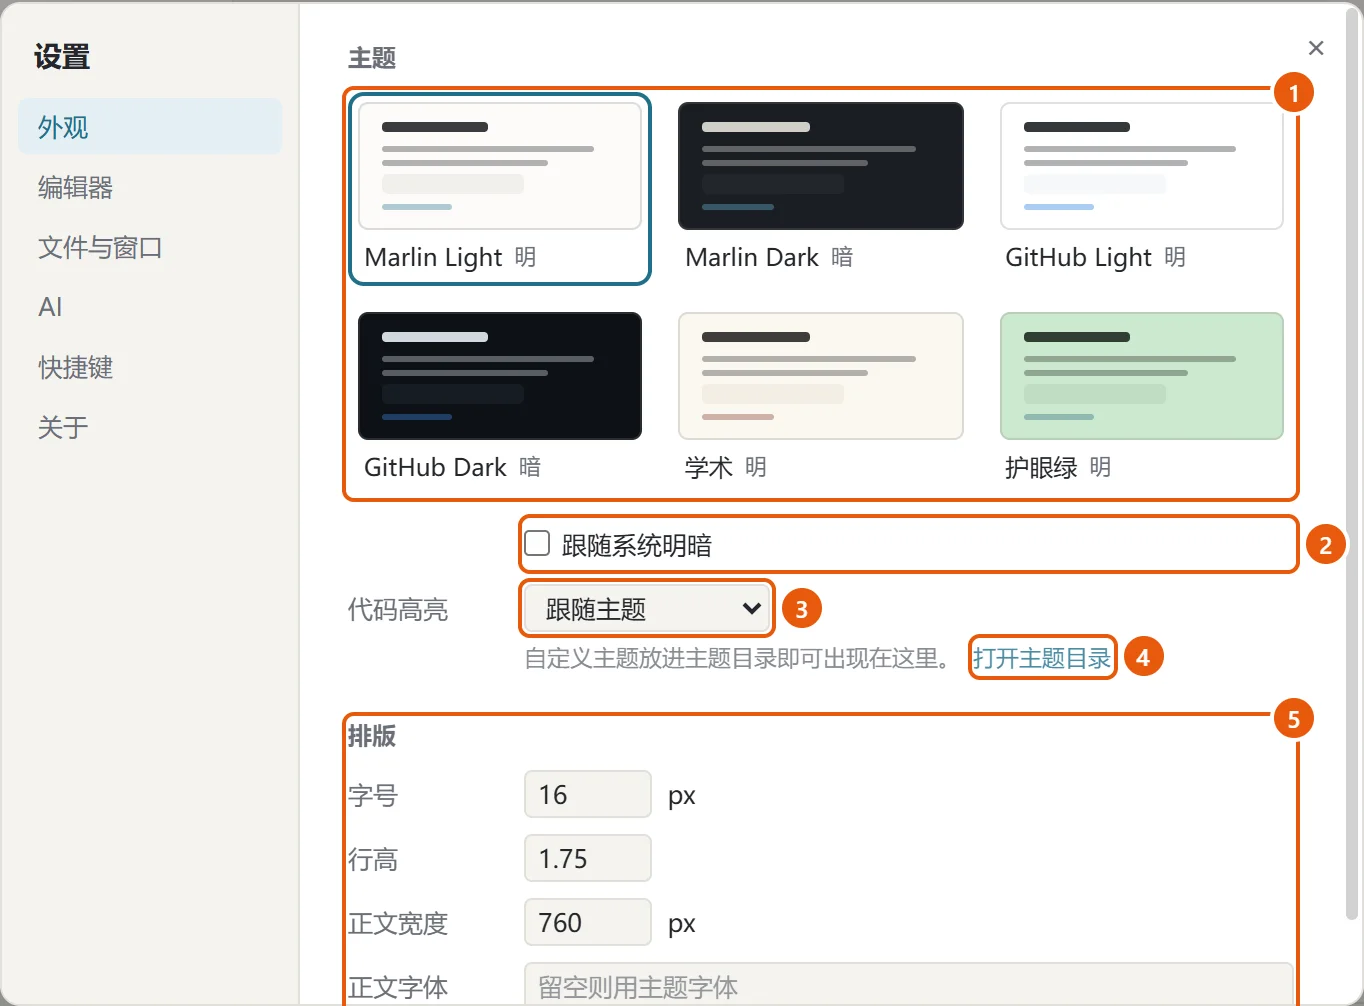
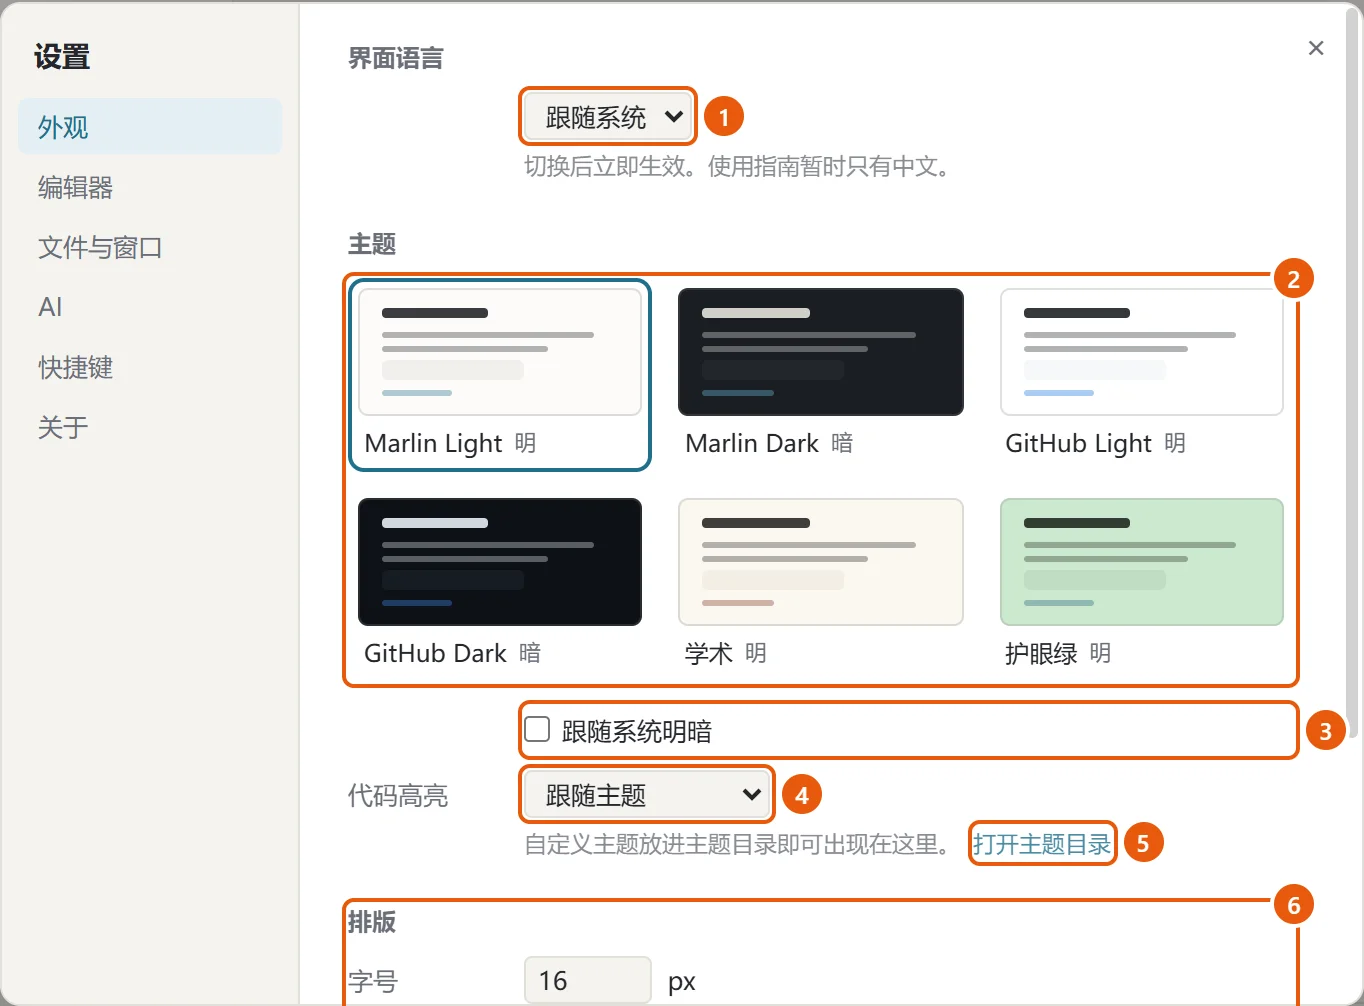
2.5.0：同步更新日志与使用指南（界面语言）；常见问题加「有英文界面吗」；安装包 7.1 MB

Changed region(s): [[0.2463, 0.0308, 1.0, 1.0], [0.2463, 0.9553, 0.3387, 1.0]]

diff --git a/src/lib/faq.ts b/src/lib/faq.ts
@@ -66,6 +66,10 @@ export const faqs: Faq[] = [
     a: '这是 Windows SmartScreen 对未签名新程序的提示。点「更多信息」，再点「仍要运行」即可。'
   },
   {
+    q: '有英文界面吗？',
+    a: '有。设置 → 外观 →「界面语言」选 English，马上换成英文，不用重启；默认跟随 Windows 的显示语言。英文界面里 AI 内置命令也用英文，润色、续写仍按原文的语言回答。使用指南暂时只有中文。'
+  },
+  {
     q: '支持哪些系统？',
     a: '支持 Windows 10 1809 及以上和 Windows 11（x64）。'
   },

diff --git a/src/content/changelog.md b/src/content/changelog.md
@@ -1,5 +1,32 @@
 <!-- 由 scripts/sync.mjs 从主仓库 docs/CHANGELOG.md 生成，不要手改 -->
 
+## 2.5.0 — 2026-11-07
+
+界面有了英文版：设置 → 外观 →「界面语言」选 English，马上换过来，打开的文档和没保存的修改都不受影响。
+
+### 界面语言
+
+- 设置 → 外观最上面多了「界面语言」：简体中文、English、跟随系统（Windows 的显示语言是中文就用中文，否则用英文）。默认跟随系统：Windows 是英文的电脑升级后会变成英文界面，想要中文在这里选「简体中文」
+- 切换马上生效，所有打开的窗口一起换；正在编辑的文档、撤销记录、光标、查找框都还在
+- 英文界面覆盖标题栏、菜单、侧栏、设置、编辑器里的卡片和工具条、`/` 菜单、表格、三种画板、Mermaid 的补全和报错说明、放映、AI 的各个面板，以及保存、Git、导出这些操作的提示
+- 英文界面下，`/` 菜单和 AI 命令仍能用中文名、拼音找到（比如输入「代码」找到 Code block）
+- 插入的模板（表格、流程图、时序图、思维导图的示例文字）、新建文件的名字、默认的提交说明跟着界面语言
+- 提示框（`> [!NOTE]`）没写标题时，英文界面在预览和导出里显示 Note、Tip、Warning
+- 使用指南暂时只有中文；英文界面里「使用指南」照样打开中文版
+
+### AI
+
+- 英文界面里，内置命令显示英文名（Polish、Translate…），发给模型的是英文提示词；润色、续写这类命令仍按原文的语言回答，润色中文段落得到的还是中文
+- 翻译不填目标语言时，译成英文；原文已经是英文就译成中文
+- 「复制来改」按显示的名字存命令文件；和内置命令同名（中文名或英文名）的自己的命令会替换掉内置的
+- 外部 AI 助手（MCP）读到的工具说明和返回结果统一改为英文，对各家模型更稳；问你的确认框（打开文件夹、另存）跟着界面语言
+
+### 其他
+
+- 安装程序选英文时，文件夹右键菜单是「Open with Marlin」，`.md` 的文件类型名是「Markdown document」
+- 导出的 HTML 按文档内容标注语言（中文为主标为中文，否则英文），读屏软件和浏览器的翻译更准
+- 起始页的搜索框加宽了一点
+
 ## 2.4.1 — 2026-11-04
 
 修正几处和窗口、标签有关的问题：打开文档时反复出现「document N is not pending」、一次打开几个文件时卡住。

diff --git a/src/content/guide/23-themes.md b/src/content/guide/23-themes.md
@@ -34,11 +34,12 @@ Marlin 带了 6 套主题：
 
 <a class="shot" href="../images/settings-appearance.webp" target="_blank"><img src="../images/settings-appearance.webp" alt="设置 → 外观" loading="lazy" decoding="async"></a>
 
-1. 主题：点一下就换，带框的是现在用的
-2. 跟随系统明暗：Windows 切换浅色 / 深色模式时，Marlin 跟着换。打开后可以分别选「明亮时」「暗色时」用哪套主题
-3. 代码高亮：代码块的配色，默认跟随主题；也可以单独选 GitHub、One Dark、Solarized Light
-4. 打开主题目录：自己写的主题放这里，见下文
-5. 排版：在主题的基础上调整
+1. 界面语言：简体中文或 English；「跟随系统」时 Windows 的显示语言是中文就用中文，否则用英文。改了马上生效，打开的文档、没保存的修改和撤销记录都不受影响
+2. 主题：点一下就换，带框的是现在用的
+3. 跟随系统明暗：Windows 切换浅色 / 深色模式时，Marlin 跟着换。打开后可以分别选「明亮时」「暗色时」用哪套主题
+4. 代码高亮：代码块的配色，默认跟随主题；也可以单独选 GitHub、One Dark、Solarized Light
+5. 打开主题目录：自己写的主题放这里，见下文
+6. 排版：在主题的基础上调整
 
 | 排版 | 范围 | 说明 |
 |---|---|---|
@@ -48,6 +49,9 @@ Marlin 带了 6 套主题：
 | 正文字体 | 字体名 | 比如 `Noto Serif SC, serif`；留空用主题的字体。字体要先装在电脑上 |
 
 临时放大缩小用 <kbd>Ctrl +</kbd> / <kbd>Ctrl -</kbd>，见 [阅读](../04-reading/#放大缩小)。
+
+> <strong class="alert-title" data-kind="note">注意</strong>
+> 界面换成英文时，提示框的默认标题（「注意」「提示」）在预览和导出里也换成英文（Note、Tip）；AI 内置命令的提示词也用英文发，但润色、续写这类命令仍按原文的语言回答。文档内容、文件名不会变。使用指南暂时只有中文。
 
 ## 自己写一套主题
 

diff --git a/src/content/guide/24-settings.md b/src/content/guide/24-settings.md
@@ -10,6 +10,7 @@
 
 | 项 | 默认 | 说明 |
 |---|---|---|
+| 界面语言 | 跟随系统 | 简体中文 / English；跟随系统时按 Windows 的显示语言，中文用中文，其他用英文 |
 | 主题 | 跟随系统 | 6 套内置主题加自己写的，见 [外观与主题](../23-themes/) |
 | 跟随系统明暗 | 开，明亮时 Marlin Light、暗色时 Marlin Dark | Windows 切换浅色 / 深色时跟着换 |
 | 代码高亮 | 跟随主题 | 也可以选 GitHub、One Dark、Solarized Light |
